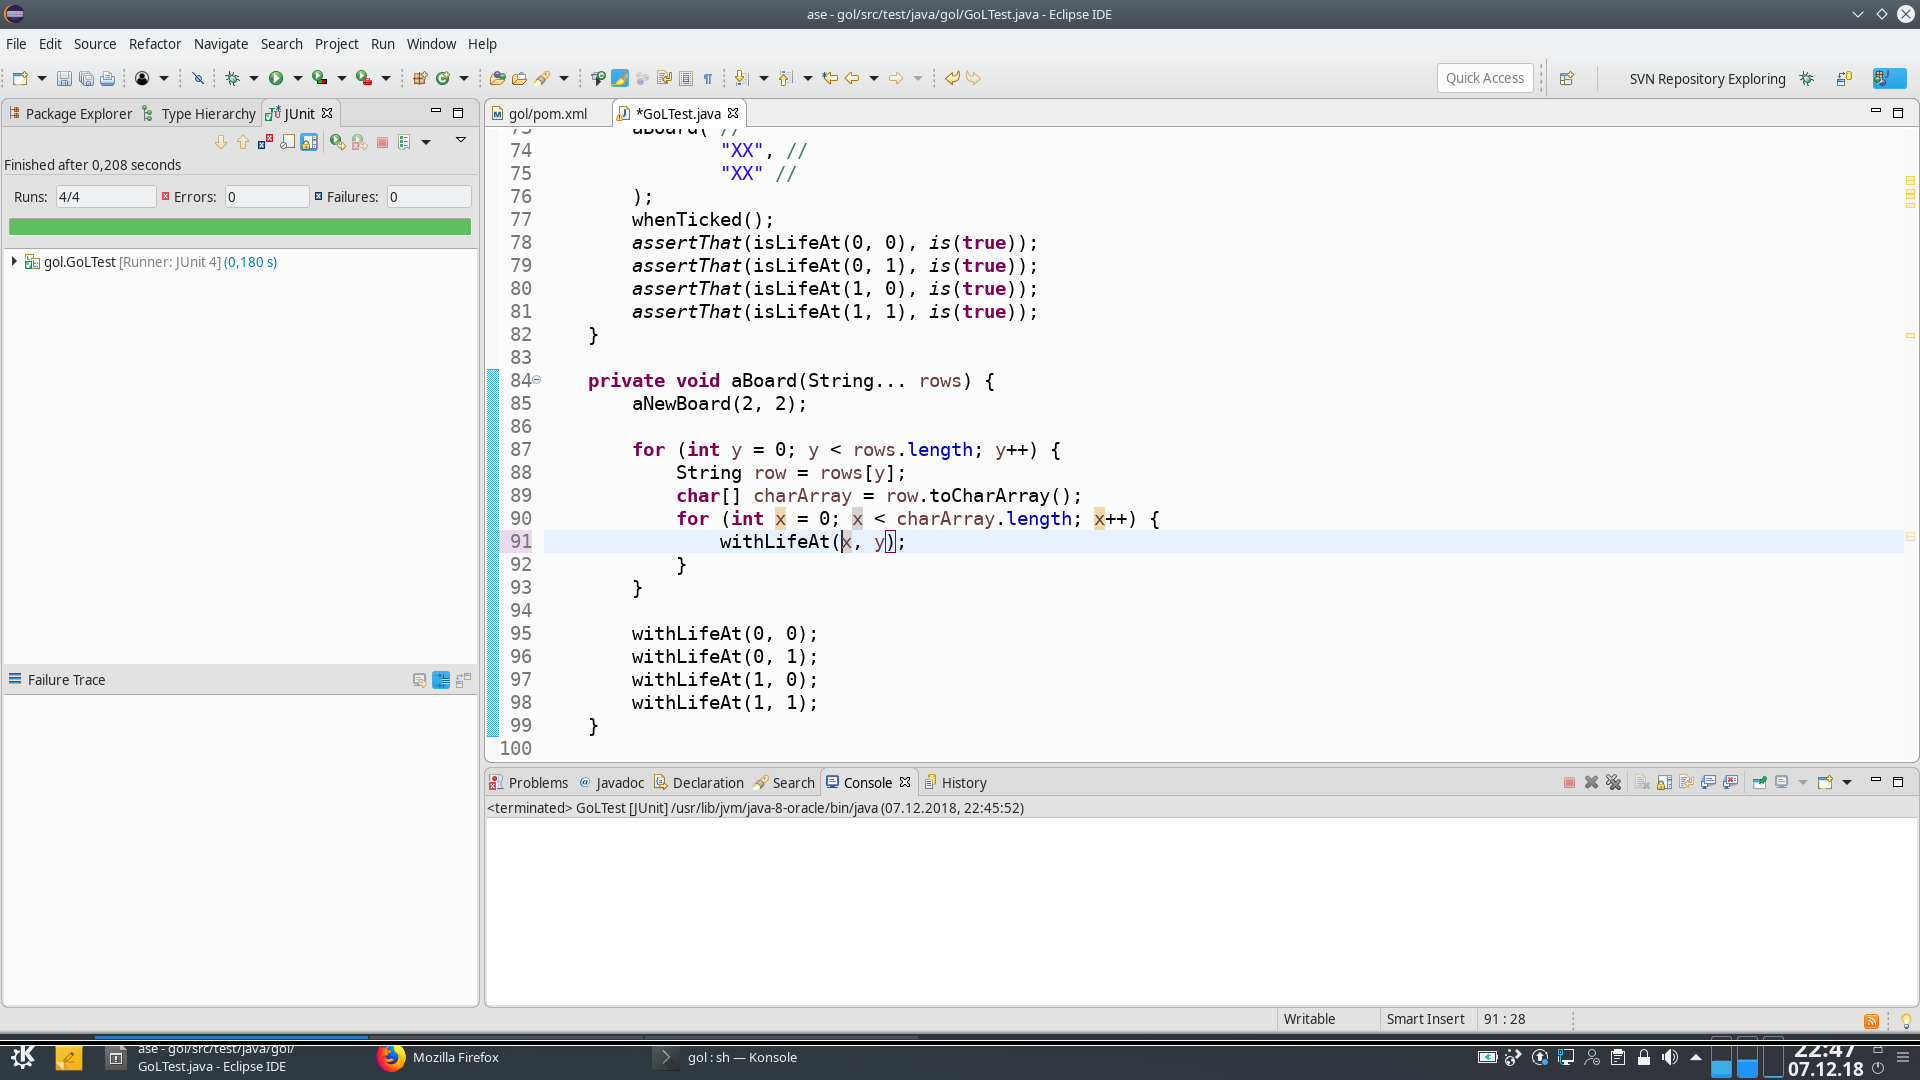
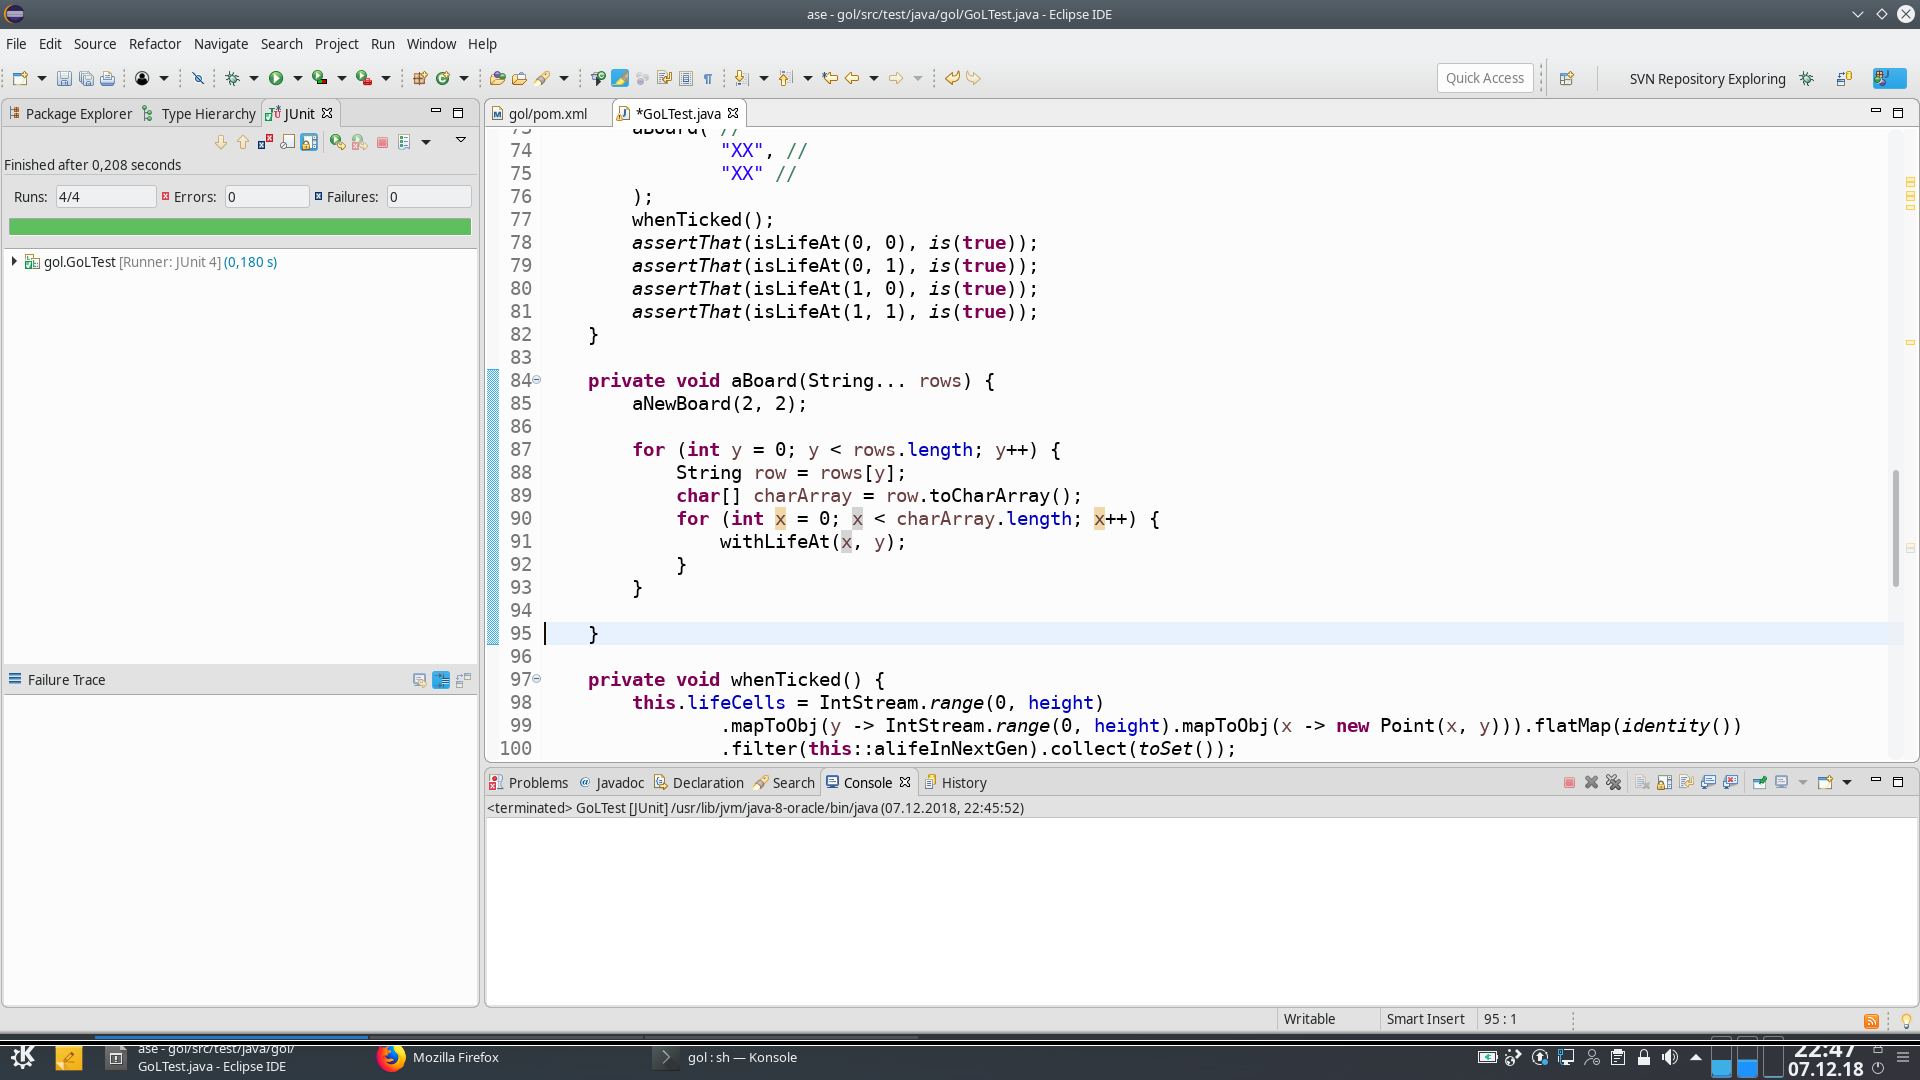
autocommit on change

diff --git a/src/test/java/gol/GoLTest.java b/src/test/java/gol/GoLTest.java
@@ -92,10 +92,6 @@ public class GoLTest {
 			}
 		}
 
-		withLifeAt(0, 0);
-		withLifeAt(0, 1);
-		withLifeAt(1, 0);
-		withLifeAt(1, 1);
 	}
 
 	private void whenTicked() {
